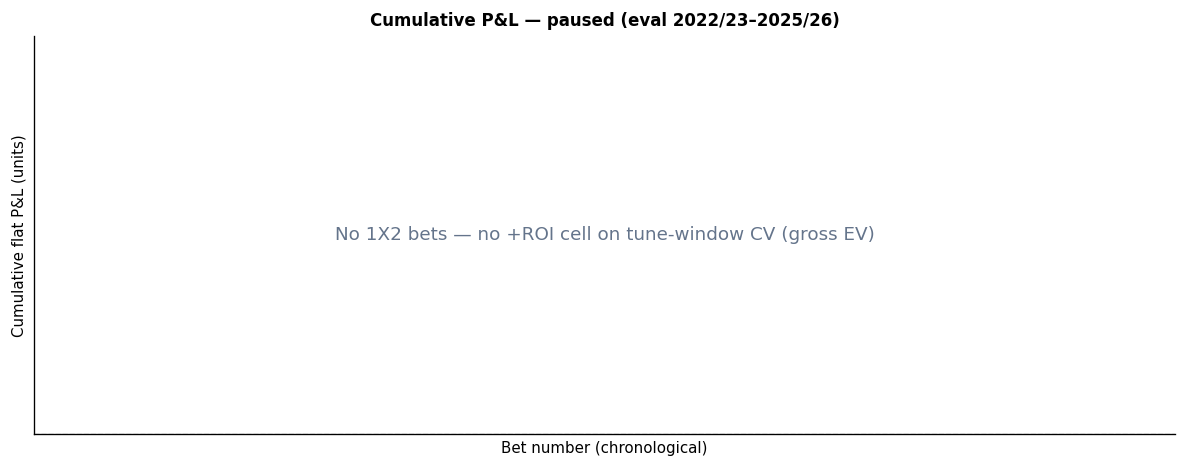
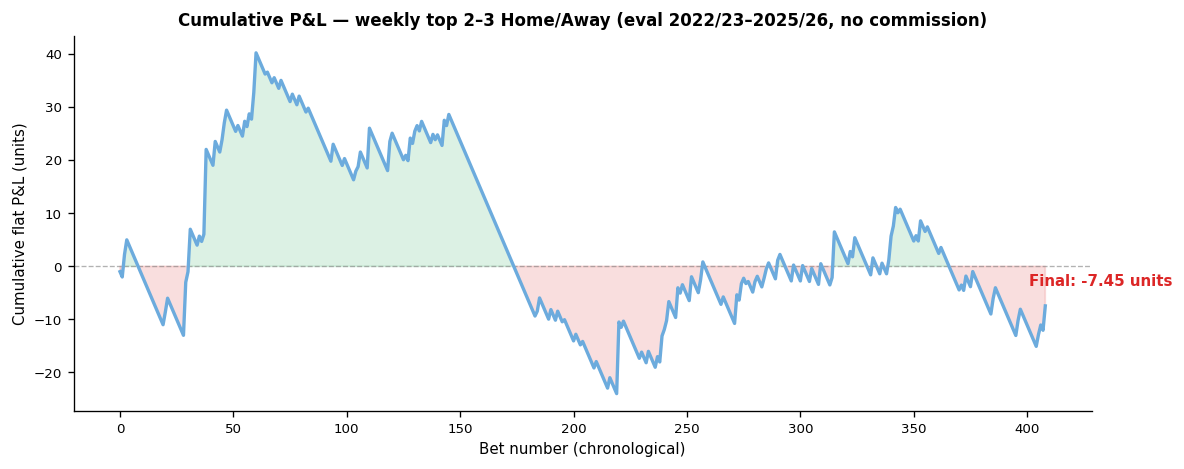
Show holdout weekly-pick ROI on the site and drop card clutter.

diff --git a/betting-paper.html b/betting-paper.html
@@ -4,7 +4,7 @@
   <meta charset="UTF-8" />
   <meta name="viewport" content="width=device-width, initial-scale=1.0" />
   <title>PL Betting Model – Project Paper – Sam Husbands</title>
-  <meta name="description" content="Project paper: Premier League match outcome model. Hyperparameters locked on 2014/15–2021/22. Live flags are weekly least-bad Home/Away picks, scored going forward by CLV." />
+  <meta name="description" content="Project paper: Premier League match outcome model. Weekly top 2–3 Home/Away picks, scored on later seasons by flat ROI (commission ignored)." />
   <link rel="preconnect" href="https://fonts.googleapis.com" />
   <link rel="preconnect" href="https://fonts.gstatic.com" crossorigin />
   <link href="https://fonts.googleapis.com/css2?family=Inter:wght@400;500;600;700&display=swap" rel="stylesheet" />
@@ -289,7 +289,7 @@
   <div class="paper-header">
     <div class="container">
       <h1>PL Betting Model</h1>
-      <p>Project paper — hyperparameters and the Poisson mix are locked on 2014/15–2021/22 walk-forward validation. Classification metrics use later completed seasons. Live flags are the week’s two or three largest Home/Away disagreements, scored going forward by CLV rather than a locked +ROI threshold.</p>
+      <p>Weekly top two or three Home/Away disagreements, scored on later seasons by flat ROI. Hyperparameters and the Poisson mix stay locked on 2014/15–2021/22. Reported ROI ignores Betfair commission — a win pays odds − 1.</p>
       <div class="header-meta">
         <span>Premier League</span>
         <span id="headerEvalSeasons">Eval window: 2022/23–2025/26</span>
@@ -352,11 +352,11 @@
           <div class="method-step">
             <div class="method-step-num">5</div>
             <div class="method-step-body">
-              <h4>Weekly least-bad picks</h4>
+              <h4>Weekly picks</h4>
               <p>Each ISO week we rank Home/Away sides by gross EV (<em>p × odds</em>) and keep the top two or three.
               High edge is <em>EV ≥ 1.40</em>, or the week’s #1 if <em>EV ≥ 1.25</em>; otherwise medium.
-              These are the largest model-vs-market gaps, not a locked +ROI rule. Going-forward CLV is the scoreboard.
-              Kelly (capped at 25%) uses Exchange net odds as a conservative stake.
+              Holdout ROI is that same rule, 1 unit per pick, on later completed seasons.
+              Figures ignore Betfair commission (a win pays odds − 1).
               Far-horizon books whose implied overround is outside 1.00–1.20 are treated as unavailable.</p>
             </div>
           </div>
@@ -419,12 +419,11 @@
 
       <!-- GAMBLING PERFORMANCE -->
       <section class="paper-section">
-        <div class="paper-section-heading" id="gamblingHeading">Live scoreboard — closing-line value</div>
+        <div class="paper-section-heading" id="gamblingHeading">How the weekly picks did on later seasons</div>
         <p style="font-size:0.88rem; color:var(--muted); margin-bottom:1.25rem; max-width:680px;" id="gamblingIntro">
-          Weekly least-bad Home/Away picks are recorded at the odds we would have taken.
-          After football-data publishes Betfair closing prices (BFEH / BFED / BFEA), CLV is
-          <em>odds taken / close − 1</em>. Flat historical ROI is a caption only — the model
-          does not claim a +ROI threshold.
+          Same rule as the live cards: top two or three Home/Away sides each ISO week by gross EV.
+          Flat staking is 1 unit per pick. A win pays odds − 1.
+          <strong>These figures ignore Betfair commission.</strong>
         </p>
         <div class="gambling-tiles" id="gamblingTiles">
           <!-- Populated by JS -->
@@ -441,8 +440,8 @@
           </div>
         </div>
         <div class="plot-caption" id="roiCaption">
-          Historical flat P&amp;L from the old EV sweep is kept as a reference curve, not as a live claim.
-          Live flags are judged by CLV, not by this plot.
+          Cumulative flat P&amp;L from the weekly Home/Away picks, chronological, 1 unit a pop.
+          Ignores Betfair commission.
         </div>
       </section>
 
@@ -537,7 +536,7 @@
             <div class="method-step-num" style="background:#f59e0b;">!</div>
             <div class="method-step-body">
               <h4>Static odds snapshot</h4>
-              <p>Predictions use a single odds snapshot from the daily pipeline run (~08:00 UTC). The optimal bet-placement window — often closer to kick-off once lineups are confirmed — is not exploited. A going-forward CLV ledger now records odds taken vs football-data Betfair closing prices once those matches settle. Far-horizon MATCH_ODDS books are often empty except for 1.01–1.18 leftovers; those prices are dropped unless implied overround sits between 1.00 and 1.20.</p>
+              <p>Predictions use a single odds snapshot from the daily pipeline run (~08:00 UTC). The optimal bet-placement window — often closer to kick-off once lineups are confirmed — is not exploited. Far-horizon MATCH_ODDS books are often empty except for 1.01–1.18 leftovers; those prices are dropped unless implied overround sits between 1.00 and 1.20.</p>
             </div>
           </div>
 
@@ -705,16 +704,16 @@
       if (header) header.textContent = 'Eval window: ' + seasons;
       const nMatches  = e && e.n_test_matches !== null ? e.n_test_matches : null;
 
-      const clv = e && e.clv;
-      const meanClv = clv && clv.mean_clv_pct != null
-        ? ((clv.mean_clv_pct > 0 ? '+' : '') + Number(clv.mean_clv_pct).toFixed(1) + '%')
-        : (clv && clv.n_settled === 0 ? '—' : null);
-      const clvSub = clv
-        ? `${clv.n_settled || 0} settled · ${clv.n_open || 0} open`
-        : 'going-forward ledger';
+      const g = e && e.gambling;
+      const roi = g && g.flat_roi_pct != null
+        ? ((g.flat_roi_pct > 0 ? '+' : '') + Number(g.flat_roi_pct).toFixed(1) + '%')
+        : null;
+      const roiSub = g && g.flat_bets != null
+        ? `${g.flat_bets} weekly picks · no commission`
+        : 'weekly picks, no commission';
 
       document.getElementById('glanceTiles').innerHTML =
-        makeTile(meanClv,  'Mean CLV',    clvSub) +
+        makeTile(roi,      'Holdout ROI', roiSub) +
         makeTile(rocAuc,   'ROC-AUC',    'multiclass OVR') +
         makeTile(brier,    'Brier score', 'lower is better') +
         makeTile(logLoss,  'Log loss',    'lower is better') +
@@ -763,30 +762,23 @@
     }
 
     function renderGambling(e) {
-      const clv = e && e.clv;
-      const meanClv = clv && clv.mean_clv_pct != null
-        ? ((clv.mean_clv_pct > 0 ? '+' : '') + Number(clv.mean_clv_pct).toFixed(1) + '%')
-        : null;
-      const settled = clv && clv.n_settled != null ? String(clv.n_settled) : '0';
-      const openN = clv && clv.n_open != null ? String(clv.n_open) : '0';
-      const clvClass = (clv && clv.mean_clv_pct != null)
-        ? (clv.mean_clv_pct >= 0 ? 'positive' : 'negative')
-        : '';
-
       const g = e && e.gambling;
-      const flatRoi = g && g.flat_roi_pct != null ? fmt(g.flat_roi_pct, 1, '%') : '—';
+      const flatRoi   = g && g.flat_roi_pct != null ? fmt(g.flat_roi_pct, 1, '%') : null;
+      const flatBets  = g && g.flat_bets    != null ? g.flat_bets + ' bets'       : null;
+      const flatPnl   = g && g.flat_pnl     != null ? fmt(g.flat_pnl,     2)      : null;
+      const winRate   = g && g.win_rate_pct != null ? fmt(g.win_rate_pct, 1, '%') : null;
+      const roiClass  = (g && g.flat_roi_pct != null) ? (g.flat_roi_pct >= 0 ? 'positive' : 'negative') : '';
+      const pnlClass  = (g && g.flat_pnl     != null) ? (g.flat_pnl     >= 0 ? 'positive' : 'negative') : '';
 
       document.getElementById('gamblingTiles').innerHTML =
-        makeGamblingTile(meanClv, 'Mean CLV', 'odds taken / close − 1 on settled weekly picks', clvClass) +
-        makeGamblingTile(settled, 'Settled', 'Picks with a Betfair closing price', '') +
-        makeGamblingTile(openN, 'Open', 'Picks still waiting for a close', '');
+        makeGamblingTile(flatRoi,  'Flat ROI',    '1 unit per weekly pick · ignores commission', roiClass) +
+        makeGamblingTile(flatBets, 'Picks',       'Top 2–3 Home/Away each ISO week on the holdout', '') +
+        makeGamblingTile(flatPnl,  'Flat P&amp;L', 'Net units after a win pays odds − 1', pnlClass) +
+        makeGamblingTile(winRate,  'Win rate',    'Share of weekly picks that landed', '');
 
       const cap = document.getElementById('roiCaption');
       if (cap) {
-        const extra = (g && g.flat_roi_pct != null && g.flat_bets != null)
-          ? ` Old-sweep flat ROI on the eval window was ${flatRoi} over ${g.flat_bets} bets — a caption, not a hero number.`
-          : '';
-        cap.textContent = 'Historical flat P&L from the old EV sweep is kept as a reference curve, not as a live claim. Live flags are judged by CLV, not by this plot.' + extra;
+        cap.textContent = 'Cumulative flat P&L from the weekly Home/Away picks, chronological, 1 unit a pop. Ignores Betfair commission.';
       }
 
       const mkt = e && e.market_calibration;
@@ -799,8 +791,12 @@
       }
 
       const note = document.getElementById('sampleSizeNote');
-      if (note) {
-        note.textContent = 'CLV is the live scoreboard. Historical ROI cells were never stable enough to lock a +EV threshold; weekly least-bad picks are disagreements, not a profitability claim.';
+      const evalSeasons = (e && e.test_seasons) || '';
+      if (note && g && g.flat_bets != null) {
+        const roi = g.flat_roi_pct != null ? g.flat_roi_pct.toFixed(1) + '%' : 'the reported ROI';
+        note.textContent = g.flat_bets + ' weekly picks across ' + evalSeasons
+          + '. That is still a modest sample; a bad run can flip '
+          + roi + '. Figures ignore Betfair commission.';
       }
     }
 

diff --git a/betting.html b/betting.html
@@ -752,7 +752,7 @@
   <div class="betting-header">
     <div class="container">
       <h1>PL Betting Model</h1>
-      <p>This week and next: the two or three least-bad Home/Away disagreements, scored going forward by CLV.</p>
+      <p>This week and next: the two or three punchiest Home/Away disagreements. Holdout ROI is the scoreboard (figures ignore commission).</p>
     </div>
   </div>
 
@@ -770,7 +770,7 @@
             <span class="kpi-pill"><span class="k">Fixtures</span>—</span>
             <span class="kpi-pill"><span class="k">Value</span>—</span>
             <span class="kpi-pill"><span class="k">Odds</span>—</span>
-            <span class="kpi-pill"><span class="k">CLV</span>—</span>
+            <span class="kpi-pill"><span class="k">Holdout ROI</span>—</span>
           </div>
           <label class="toggle-pill" title="Show only fixtures with value bets">
             <input type="checkbox" id="showValueOnly" />
@@ -827,7 +827,7 @@
 
         <div class="method-card">
           <h4>Value bets</h4>
-          <p>These are the largest model-vs-market gaps each ISO week — the top two or three Home/Away sides by gross EV (<em>p × odds</em>), tagged high or medium edge. They are not a locked +ROI rule. The CLV pill is how we will know if they were any good. Thin far-horizon books are dropped. Kelly is a conservative stake only.</p>
+          <p>Each ISO week we flag the top two or three Home/Away sides by gross EV (<em>p × odds</em>), tagged high or medium edge. The holdout ROI pill is how that same weekly rule did on later seasons — 1 unit a pop, a win pays odds − 1. Those figures ignore Betfair commission. Thin far-horizon books are dropped.</p>
         </div>
 
         <div class="method-card">
@@ -1032,8 +1032,6 @@
         : '';
       const marks = [];
       if (flags && flags.promoted) marks.push('<span class="team-flag promo">Promoted</span>');
-      if (flags && flags.europe) marks.push('<span class="team-flag euro">Europe</span>');
-      if (flags && flags.keyOut) marks.push('<span class="team-flag key">Key out</span>');
       return `<span class="team-block">${img}<span class="team-name">${escapeHtml(name)}</span>${marks.join('')}</span>`;
     }
 
@@ -1265,15 +1263,11 @@
             </div>
             <div class="fixture-teams">
               ${teamBlock(home, crests, {
-                promoted: fixture.match_context && fixture.match_context.promoted && fixture.match_context.promoted.home,
-                europe: fixture.match_context && fixture.match_context.euro_hangover && fixture.match_context.euro_hangover.home,
-                keyOut: fixture.match_context && fixture.match_context.key_out && fixture.match_context.key_out.home
+                promoted: fixture.match_context && fixture.match_context.promoted && fixture.match_context.promoted.home
               })}
               <span class="fixture-vs">vs</span>
               ${teamBlock(away, crests, {
-                promoted: fixture.match_context && fixture.match_context.promoted && fixture.match_context.promoted.away,
-                europe: fixture.match_context && fixture.match_context.euro_hangover && fixture.match_context.euro_hangover.away,
-                keyOut: fixture.match_context && fixture.match_context.key_out && fixture.match_context.key_out.away
+                promoted: fixture.match_context && fixture.match_context.promoted && fixture.match_context.promoted.away
               })}
             </div>
             ${fixture.xg_poisson && fixture.xg_poisson.lambda_home != null && fixture.xg_poisson.lambda_away != null
@@ -1497,9 +1491,10 @@
       const valueOnly = document.getElementById('showValueOnly');
 
       try {
-        const [recResp, crestResp] = await Promise.all([
+        const [recResp, crestResp, evalResp] = await Promise.all([
           fetch('data/recommendations.json?t=' + Date.now()),
-          fetch('data/team-crests.json').catch(() => null)
+          fetch('data/team-crests.json').catch(() => null),
+          fetch('data/evaluation.json?t=' + Date.now()).catch(() => null)
         ]);
 
         if (!recResp.ok) throw new Error('Failed to fetch recommendations.json');
@@ -1520,21 +1515,24 @@
         const allOdds = upcoming.length > 0 && upcoming.every(f => f.betfair_odds && Object.values(f.betfair_odds).some(v => typeof v === 'number' && isFinite(v) && v > 1));
         const oddsLabel = allOdds ? 'Betfair' : (anyOdds ? 'Partial' : 'None');
 
-        function formatClv(clv) {
-          const n = clv && clv.n_settled != null ? clv.n_settled : 0;
-          if (!n) return 'CLV ledger started · 0 settled';
-          const mean = clv.mean_clv_pct;
-          const sign = mean > 0 ? '+' : '';
-          const meanTxt = (mean == null) ? '—' : `${sign}${Number(mean).toFixed(1)}%`;
-          return `CLV ${n} settled · ${meanTxt}`;
+        function formatHoldoutRoi(evalData) {
+          const g = evalData && evalData.gambling;
+          if (!g || g.flat_roi_pct == null) return '—';
+          const sign = g.flat_roi_pct > 0 ? '+' : '';
+          return `${sign}${Number(g.flat_roi_pct).toFixed(1)}%`;
         }
+
+        let evalData = null;
+        try {
+          if (evalResp && evalResp.ok) evalData = await evalResp.json();
+        } catch (_) { /* optional */ }
 
         if (metaKpis) {
           metaKpis.innerHTML = `
             <span class="kpi-pill"><span class="k">Fixtures</span>${upcoming.length}</span>
             <span class="kpi-pill"><span class="k">Value</span>${countValue}</span>
             <span class="kpi-pill"><span class="k">Odds</span>${oddsLabel}</span>
-            <span class="kpi-pill"><span class="k">CLV</span>${formatClv(data.clv)}</span>
+            <span class="kpi-pill" title="Weekly top 2–3 Home/Away on the holdout seasons. Ignores Betfair commission."><span class="k">Holdout ROI</span>${formatHoldoutRoi(evalData)}</span>
           `;
         }
 
